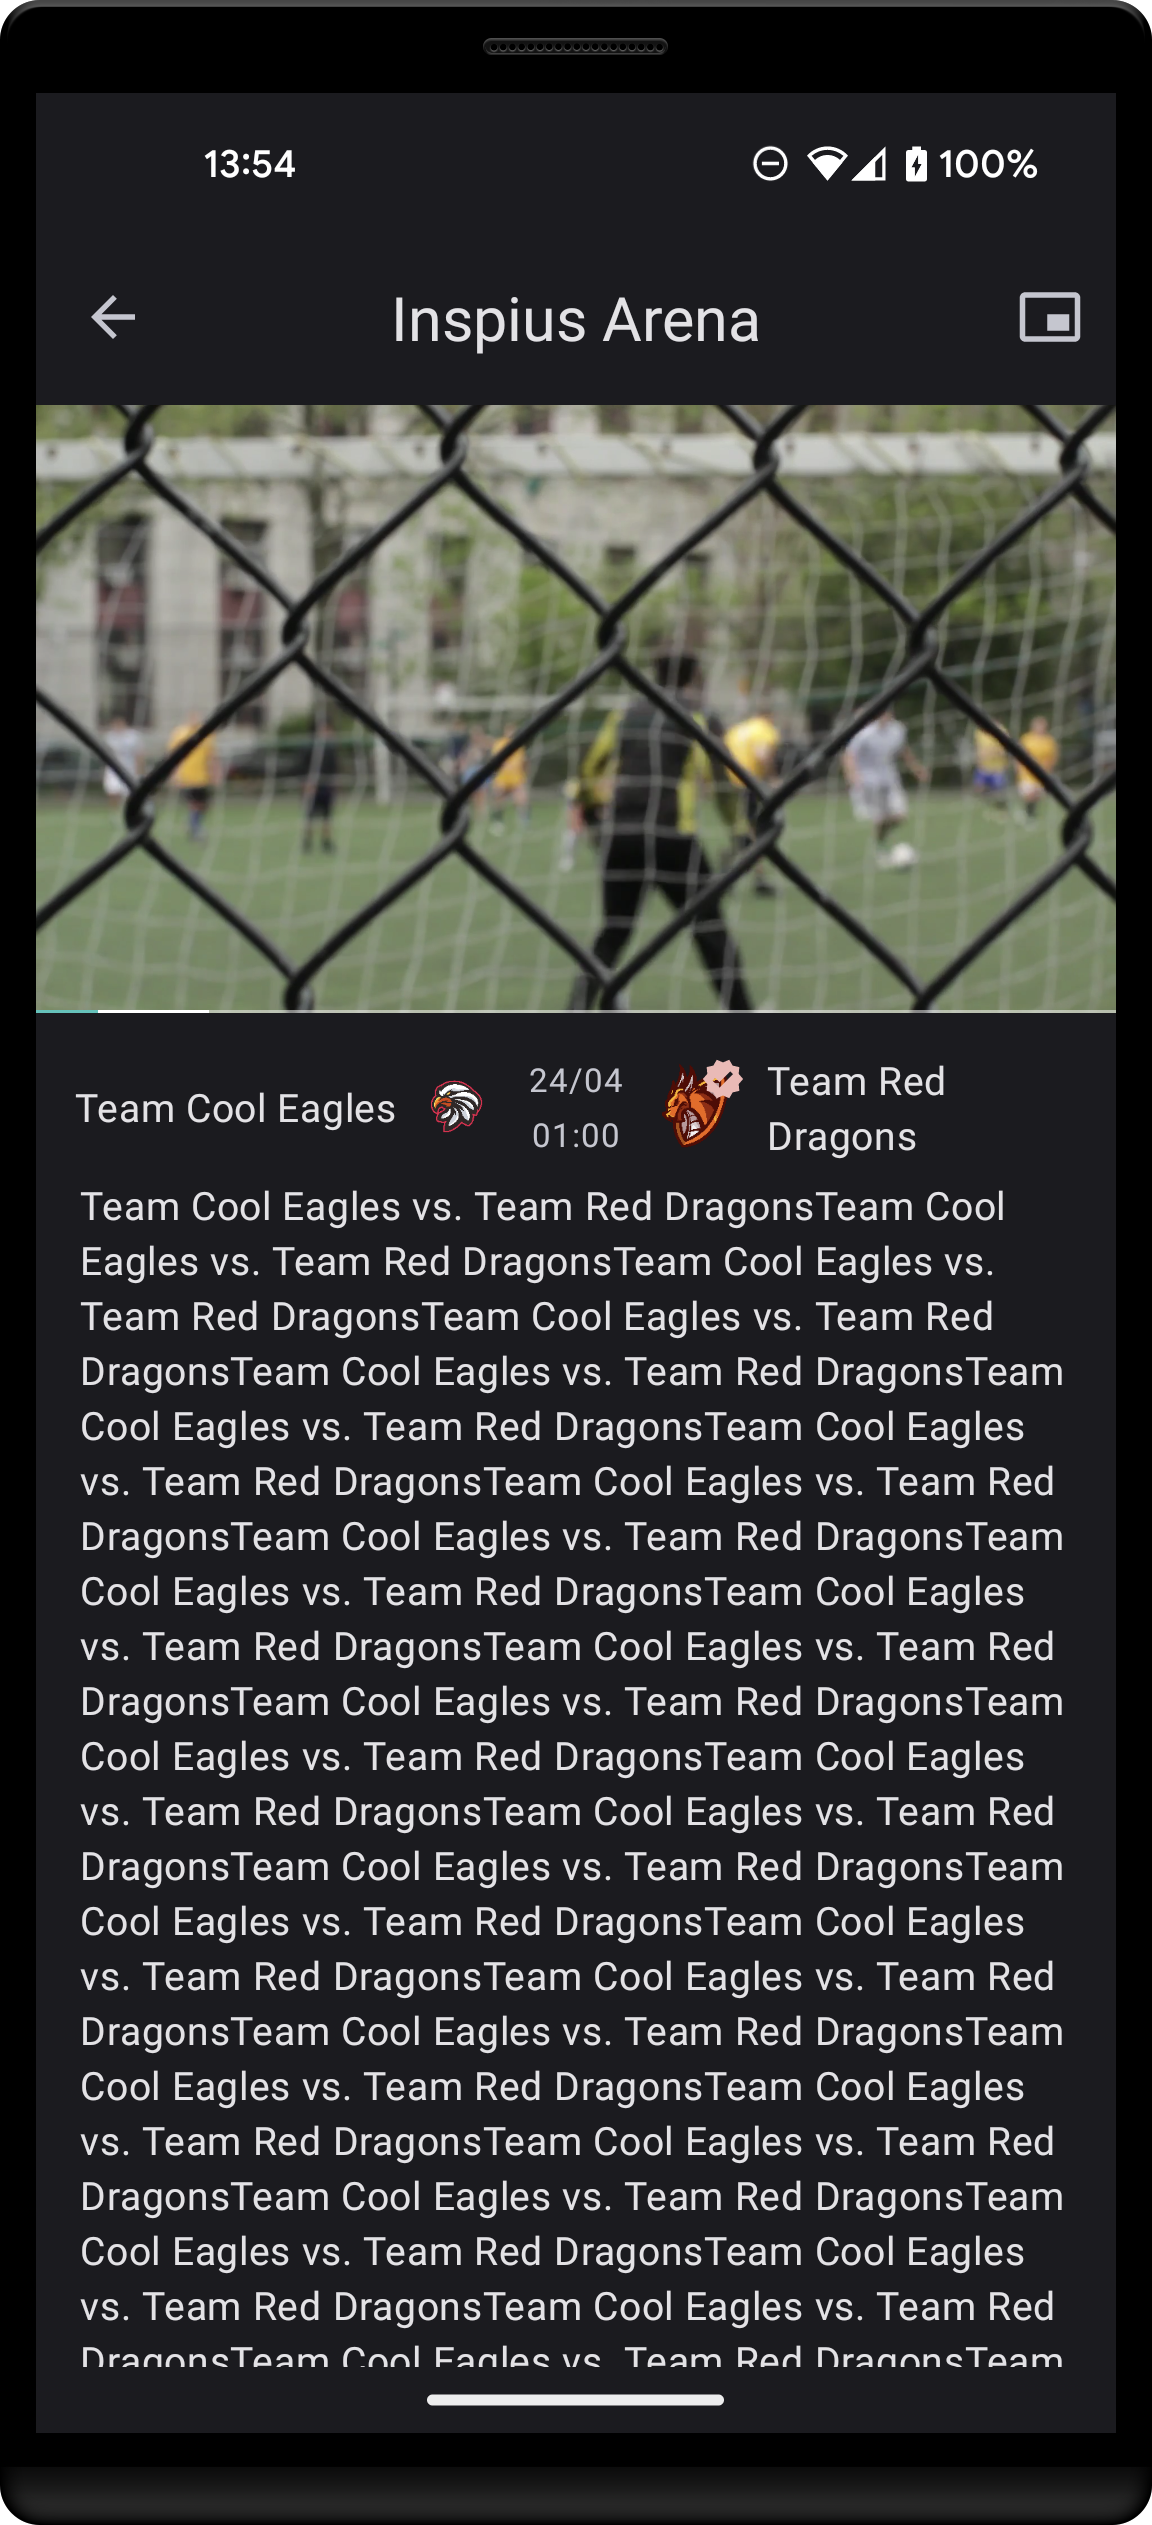
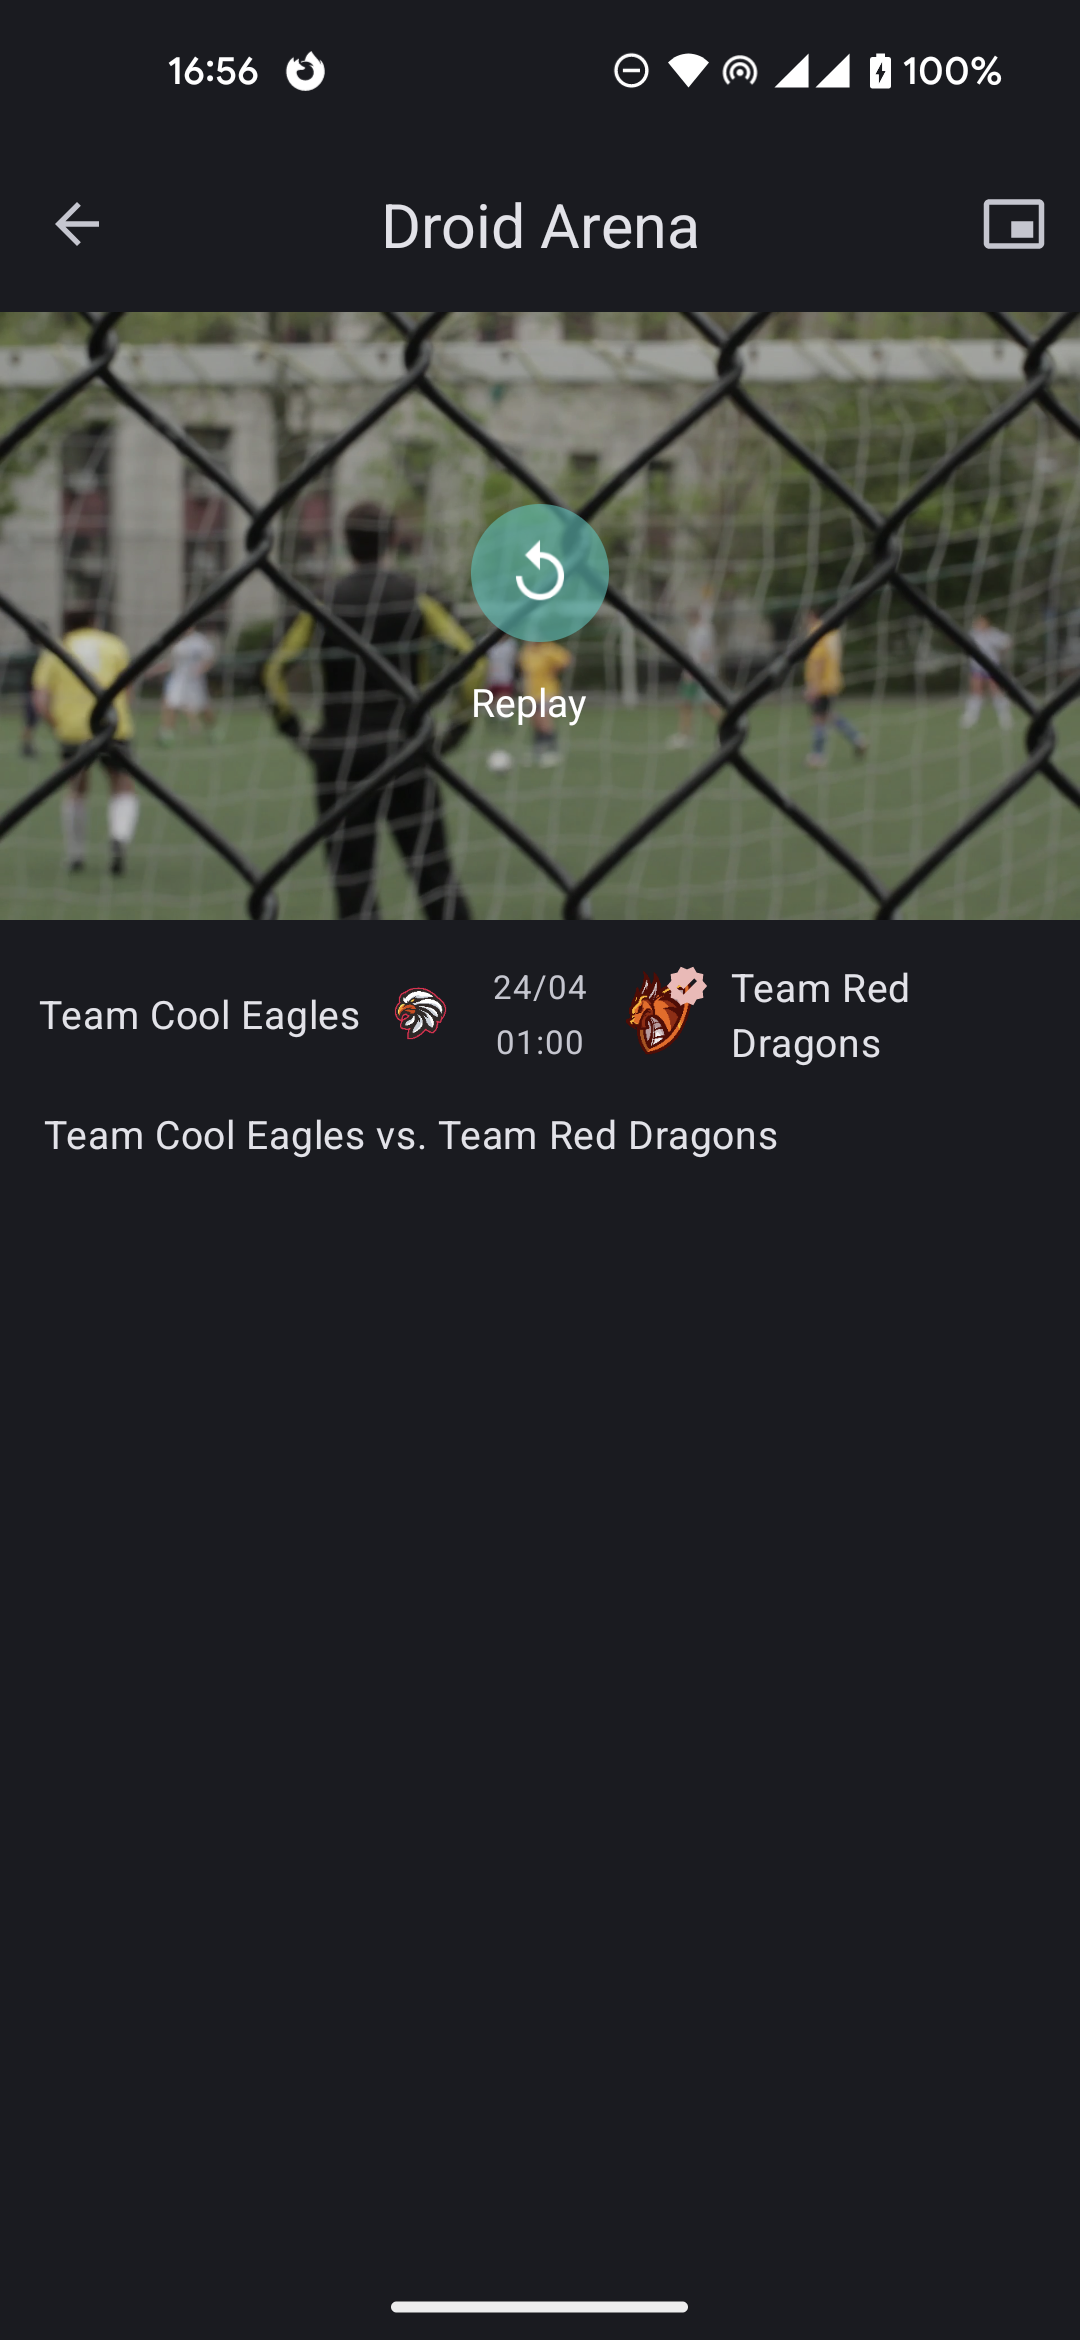
Update version + screenshot

diff --git a/feature/match/src/main/java/vn/toanpv/sample/arena/match/ui/match/list/adapter/MatchPreviousViewHolder.kt b/feature/match/src/main/java/vn/toanpv/sample/arena/match/ui/match/list/adapter/MatchPreviousViewHolder.kt
@@ -36,32 +36,38 @@ class MatchPreviousViewHolder(
 
     override fun bind(item: MatchPrevious?, payload: Bundle) {
         super.bind(item, payload)
-        when {
-            payload.getBoolean(
+        if (payload.getBoolean(
                 MatchesRecyclerViewAdapter.PAYLOAD_WINNER, false
-            ) -> bindWinner(item)
-            payload.getBoolean(
+            )
+        ) bindWinner(item)
+        if (payload.getBoolean(
                 MatchesRecyclerViewAdapter.PAYLOAD_HOME_LOGO, false
-            ) -> bindHomeLogo(item)
-            payload.getBoolean(
+            )
+        ) bindHomeLogo(item)
+        if (payload.getBoolean(
                 MatchesRecyclerViewAdapter.PAYLOAD_HOME_NAME, false
-            ) -> bindHomeName(item)
-            payload.getBoolean(
+            )
+        ) bindHomeName(item)
+        if (payload.getBoolean(
                 MatchesRecyclerViewAdapter.PAYLOAD_AWAY_LOGO, false
-            ) -> bindAwayLogo(item)
-            payload.getBoolean(
+            )
+        ) bindAwayLogo(item)
+        if (payload.getBoolean(
                 MatchesRecyclerViewAdapter.PAYLOAD_AWAY_NAME, false
-            ) -> bindAwayName(item)
-            payload.getBoolean(
+            )
+        ) bindAwayName(item)
+        if (payload.getBoolean(
                 MatchesRecyclerViewAdapter.PAYLOAD_DATE, false
-            ) -> bindDate(item)
-            payload.getBoolean(
+            )
+        ) bindDate(item)
+        if (payload.getBoolean(
                 MatchesRecyclerViewAdapter.PAYLOAD_TIME, false
-            ) -> bindTime(item)
-            payload.getBoolean(
+            )
+        ) bindTime(item)
+        if (payload.getBoolean(
                 MatchesRecyclerViewAdapter.PAYLOAD_DESCRIPTION, false
-            ) -> bindDesc(item)
-        }
+            )
+        ) bindDesc(item)
     }
 
     private fun bindWinner(match: MatchPrevious?) {
@@ -81,6 +87,7 @@ class MatchPreviousViewHolder(
                         applyTo(constraintLayout)
                     }
                 }
+
                 match.awayId -> {
                     ConstraintSet().apply {
                         clone(constraintLayout)
@@ -93,6 +100,7 @@ class MatchPreviousViewHolder(
                         applyTo(constraintLayout)
                     }
                 }
+
                 else -> {
                     vb.ivWin.isVisible = false
                 }

diff --git a/feature/match/src/main/java/vn/toanpv/sample/arena/match/ui/match/list/adapter/MatchUpcomingViewHolder.kt b/feature/match/src/main/java/vn/toanpv/sample/arena/match/ui/match/list/adapter/MatchUpcomingViewHolder.kt
@@ -34,29 +34,35 @@ class MatchUpcomingViewHolder(
 
     override fun bind(item: MatchUpcoming?, payload: Bundle) {
         super.bind(item, payload)
-        when {
-            payload.getBoolean(
+        if (payload.getBoolean(
                 MatchesRecyclerViewAdapter.PAYLOAD_REMINDER, false
-            ) -> bindReminder(item)
-            payload.getBoolean(
+            )
+        ) bindReminder(item)
+        if (payload.getBoolean(
                 MatchesRecyclerViewAdapter.PAYLOAD_HOME_LOGO, false
-            ) -> bindHomeLogo(item)
-            payload.getBoolean(
+            )
+        ) bindHomeLogo(item)
+        if (payload.getBoolean(
                 MatchesRecyclerViewAdapter.PAYLOAD_HOME_NAME, false
-            ) -> bindHomeName(item)
-            payload.getBoolean(
+            )
+        ) bindHomeName(item)
+        if (payload.getBoolean(
                 MatchesRecyclerViewAdapter.PAYLOAD_AWAY_LOGO, false
-            ) -> bindAwayLogo(item)
-            payload.getBoolean(
+            )
+        ) bindAwayLogo(item)
+        if (payload.getBoolean(
                 MatchesRecyclerViewAdapter.PAYLOAD_AWAY_NAME, false
-            ) -> bindAwayName(item)
-            payload.getBoolean(
+            )
+        ) bindAwayName(item)
+        if (payload.getBoolean(
                 MatchesRecyclerViewAdapter.PAYLOAD_DATE, false
-            ) -> bindDate(item)
-            payload.getBoolean(
+            )
+        ) bindDate(item)
+        if (payload.getBoolean(
                 MatchesRecyclerViewAdapter.PAYLOAD_TIME, false
-            ) -> bindTime(item)
-        }
+            )
+        ) bindTime(item)
+
     }
 
     private fun bindReminder(match: MatchUpcoming?) {

diff --git a/feature/movies/src/main/java/vn/toanpv/sample/movies/ui/movie/adapter/MovieSearchItemViewHolder.kt b/feature/movies/src/main/java/vn/toanpv/sample/movies/ui/movie/adapter/MovieSearchItemViewHolder.kt
@@ -34,11 +34,9 @@ class MovieSearchItemViewHolder(
 
     override fun bind(item: MovieItem?, payload: Bundle) {
         super.bind(item, payload)
-        when {
-            payload.getBoolean(MovieAdapter.PAYLOAD_BOOKMARK, false) -> bindBookmark(item)
-            payload.getBoolean(MovieAdapter.PAYLOAD_TITLE, false) -> bindTitle(item)
-            payload.getBoolean(MovieAdapter.PAYLOAD_TITLE, false) -> bindPoster(item)
-        }
+        if (payload.getBoolean(MovieAdapter.PAYLOAD_BOOKMARK, false)) bindBookmark(item)
+        if (payload.getBoolean(MovieAdapter.PAYLOAD_TITLE, false)) bindTitle(item)
+        if (payload.getBoolean(MovieAdapter.PAYLOAD_TITLE, false)) bindPoster(item)
     }
 
     private fun bindTitle(item: MovieItem?) {

diff --git a/feature/match/src/main/java/vn/toanpv/sample/arena/match/ui/team/adapter/TeamSelectorViewHolder.kt b/feature/match/src/main/java/vn/toanpv/sample/arena/match/ui/team/adapter/TeamSelectorViewHolder.kt
@@ -33,11 +33,9 @@ class TeamSelectorViewHolder(
 
     override fun bind(item: TeamItem?, payload: Bundle) {
         super.bind(item, payload)
-        when {
-            payload.getBoolean(PAYLOAD_CHECK, false) -> bindCheck(item)
-            payload.getBoolean(PAYLOAD_NAME, false) -> bindName(item)
-            payload.getBoolean(PAYLOAD_LOGO, false) -> bindLogo(item)
-        }
+        if (payload.getBoolean(PAYLOAD_CHECK, false)) bindCheck(item)
+        if (payload.getBoolean(PAYLOAD_NAME, false)) bindName(item)
+        if (payload.getBoolean(PAYLOAD_LOGO, false)) bindLogo(item)
     }
 
     private fun bindName(item: TeamItem?) {

diff --git a/feature/movies/src/main/java/vn/toanpv/sample/movies/di/NetworkModule.kt b/feature/movies/src/main/java/vn/toanpv/sample/movies/di/NetworkModule.kt
@@ -1,11 +1,8 @@
 package vn.toanpv.sample.movies.di
 
-import android.content.Context
 import io.ktor.client.HttpClient
 import io.ktor.client.engine.cio.CIO
 import io.ktor.client.engine.cio.endpoint
-import io.ktor.client.plugins.cache.HttpCache
-import io.ktor.client.plugins.cache.storage.FileStorage
 import io.ktor.client.plugins.contentnegotiation.ContentNegotiation
 import io.ktor.client.plugins.defaultRequest
 import io.ktor.client.plugins.logging.DEFAULT

diff --git a/feature/match/src/main/java/vn/toanpv/sample/arena/match/ui/match/detail/MatchDetailActivity.kt b/feature/match/src/main/java/vn/toanpv/sample/arena/match/ui/match/detail/MatchDetailActivity.kt
@@ -121,7 +121,7 @@ class MatchDetailActivity : VideoViewPiPActivity() {
             tvHomeName.text = match?.homeName ?: ""
             tvDescription.apply {
                 if (match != null) {
-                    text = match.description.repeat(60)
+                    text = match.description
                     isVisible = true
                 } else {
                     text = ""

diff --git a/buildSrc/src/main/kotlin/Plugins.kt b/buildSrc/src/main/kotlin/Plugins.kt
@@ -1,7 +1,7 @@
 object Plugins {
 
     object Versions {
-        const val androidLibrary = "7.4.2"
+        const val androidLibrary = "8.1.0"
         const val kotlinAndroid = "1.8.0"
         const val kapt = "1.5.0"
         const val kotlinSerialization = "1.8.0"
